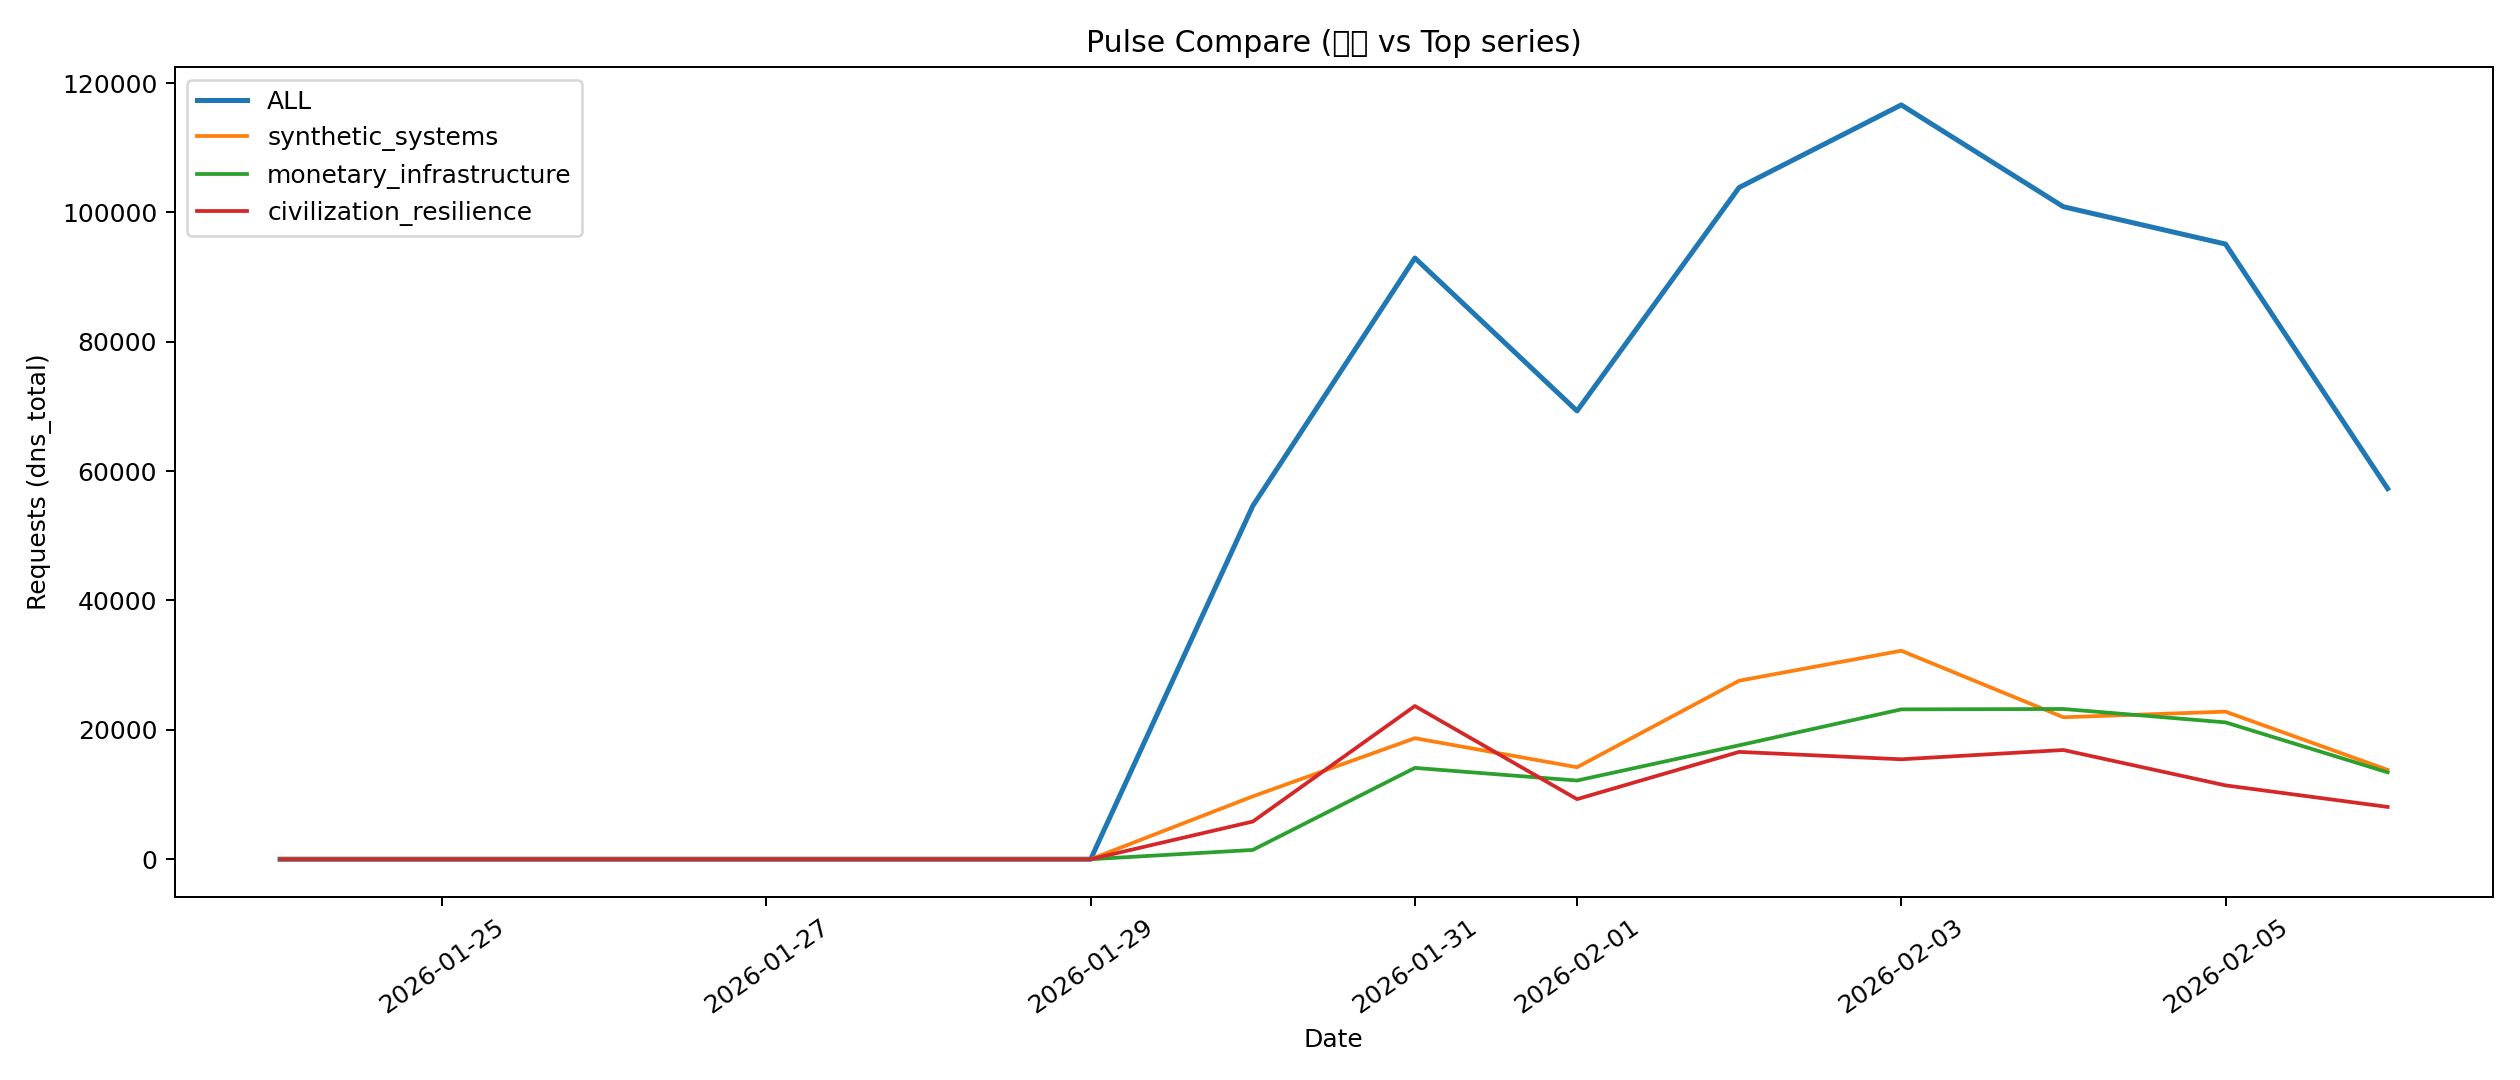
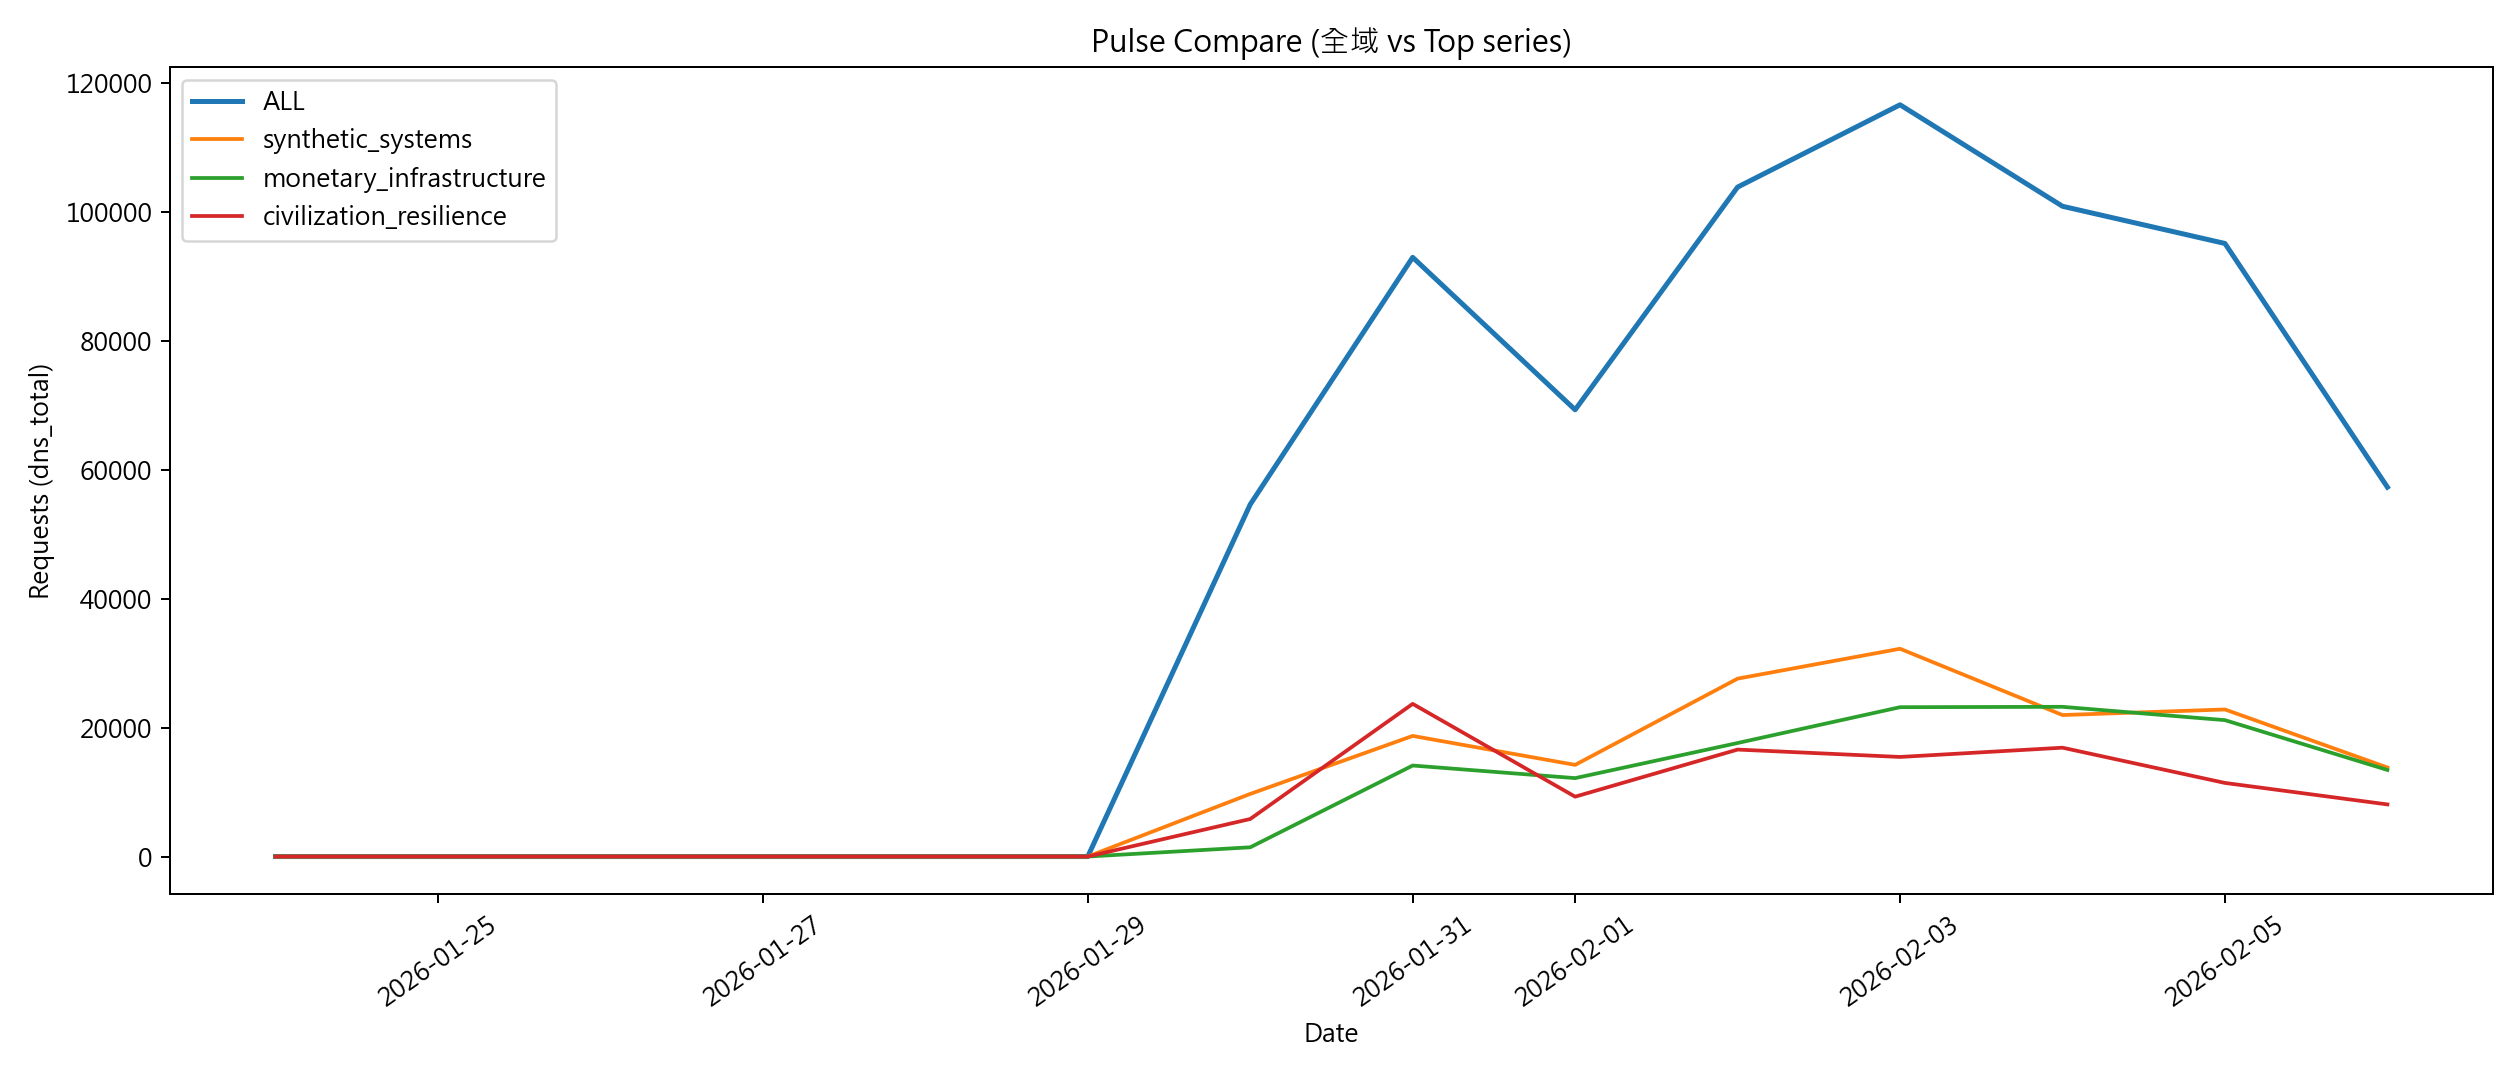
feat: 更新 matplotlib 設定以改善圖形顯示，調整氣泡大小縮放邏輯

diff --git a/make_heatcloud.py b/make_heatcloud.py
@@ -13,6 +13,9 @@ from collections import defaultdict
 from datetime import datetime, timedelta
 
 import matplotlib.pyplot as plt
+import matplotlib as mpl
+mpl.rcParams["font.sans-serif"] = ["Microsoft JhengHei", "SimHei", "Noto Sans CJK TC", "Arial Unicode MS", "DejaVu Sans"]
+mpl.rcParams["axes.unicode_minus"] = False
 from matplotlib.ticker import FuncFormatter
 
 
@@ -57,19 +60,26 @@ def clamp(v, lo, hi):
 def size_scale(score, max_score, mode="sqrt"):
     """
     Bubble size scaling for better "pressure terrain" readability.
-    - sqrt: good default
-    - log : stronger separation near small signals
+    mode:
+      - sqrt: default, good general
+      - log : log on raw score (VERY effective for lifting small signals)
     """
     if max_score <= 0:
         return 30
-    x = score / max_score
-    x = clamp(x, 0.0, 1.0)
+
+    score = max(0.0, float(score))
+    max_score = max(1.0, float(max_score))
 
     if mode == "log":
-        # log1p gives better separation near 0
-        return 30 + 970 * (math.log1p(9 * x) / math.log1p(9))
+        # ✅ key: log on score, not on normalized ratio
+        # This lifts small signals substantially.
+        x = math.log1p(score) / math.log1p(max_score)
+        x = clamp(x, 0.0, 1.0)
+        return 30 + 970 * x
 
-    # default sqrt
+    # default sqrt (on normalized)
+    x = score / max_score
+    x = clamp(x, 0.0, 1.0)
     return 30 + 970 * math.sqrt(x)
 
 
